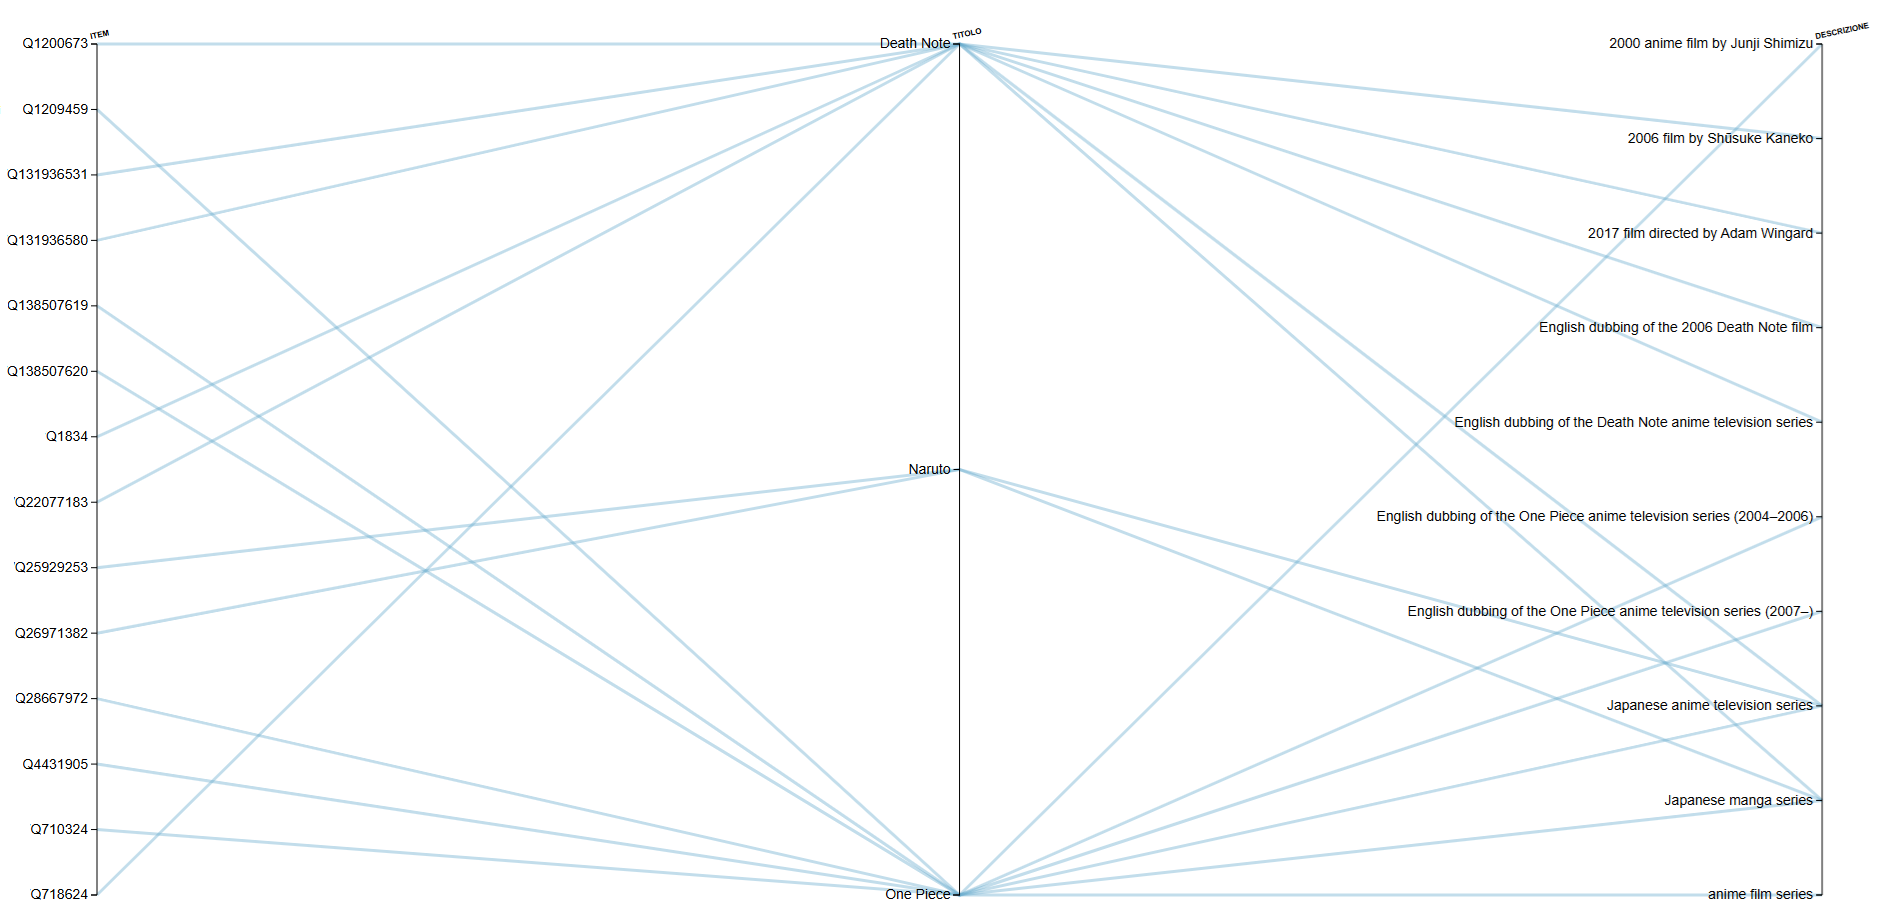
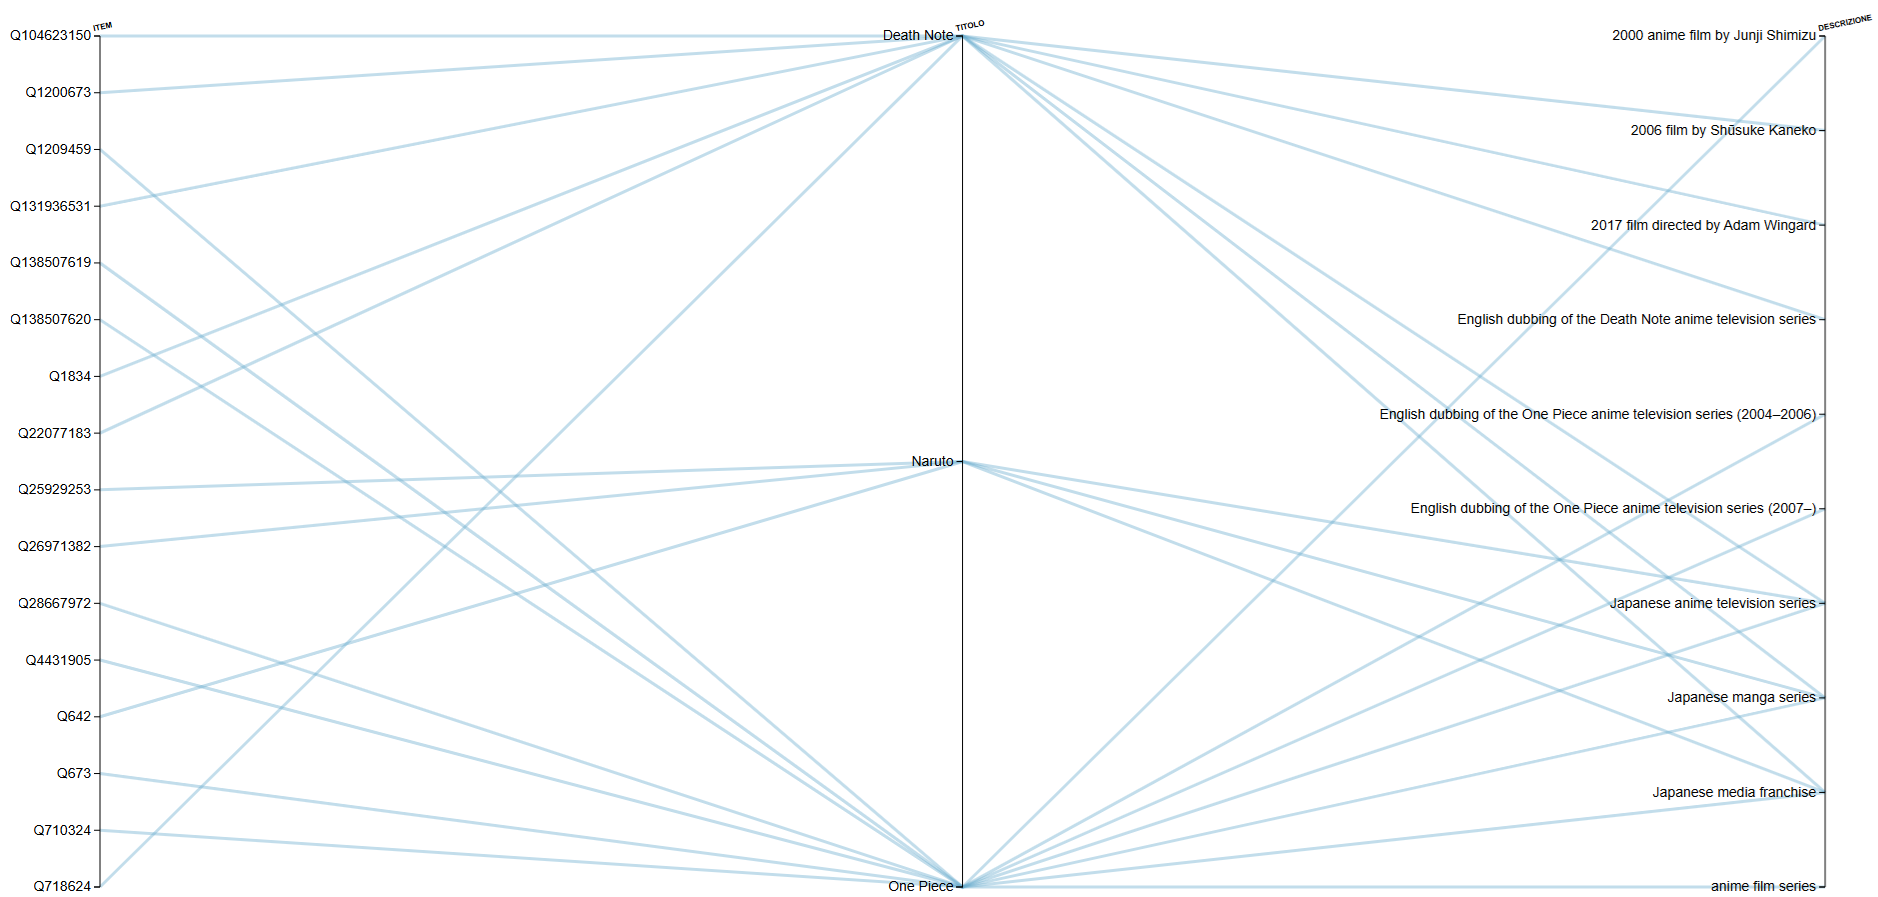
Aggiunta query 7

diff --git a/sparql.html b/sparql.html
@@ -217,7 +217,7 @@ Come possiamo fare a trovare tutti i personaggi di One Piece e Death Note che so
                         <th>Descrizione de</th>
                     </tr>
                 </thead>
-                <tbody><tr data-index="0"><td class=""><a href="http://www.wikidata.org/entity/Q4431905" title="Explore item" class="explore glyphicon glyphicon-search" tabindex="-1" aria-hidden="true"></a> <a title="" href="http://www.wikidata.org/entity/Q4431905" target="_blank" class="item-link" rel="noopener">wd:Q4431905</a></td><td class=""><span title=": One Piece@en">One Piece</span></td><td class=""><span title=": anime film series@en">anime film series</span></td></tr><tr data-index="1"><td class=""><a href="http://www.wikidata.org/entity/Q1834" title="Explore item" class="explore glyphicon glyphicon-search" tabindex="-1" aria-hidden="true"></a> <a title="" href="http://www.wikidata.org/entity/Q1834" target="_blank" class="item-link" rel="noopener">wd:Q1834</a></td><td class=""><span title=": Death Note@en">Death Note</span></td><td class=""><span title=": Japanese manga series@en">Japanese manga series</span></td></tr><tr data-index="2"><td class=""><a href="http://www.wikidata.org/entity/Q26971382" title="Explore item" class="explore glyphicon glyphicon-search" tabindex="-1" aria-hidden="true"></a> <a title="" href="http://www.wikidata.org/entity/Q26971382" target="_blank" class="item-link" rel="noopener">wd:Q26971382</a></td><td class=""><span title=": Naruto@en">Naruto</span></td><td class=""><span title=": Japanese manga series@en">Japanese manga series</span></td></tr><tr data-index="3"><td class=""><a href="http://www.wikidata.org/entity/Q28667972" title="Explore item" class="explore glyphicon glyphicon-search" tabindex="-1" aria-hidden="true"></a> <a title="" href="http://www.wikidata.org/entity/Q28667972" target="_blank" class="item-link" rel="noopener">wd:Q28667972</a></td><td class=""><span title=": One Piece@en">One Piece</span></td><td class=""><span title=": Japanese manga series@en">Japanese manga series</span></td></tr><tr data-index="4"><td class=""><a href="http://www.wikidata.org/entity/Q718624" title="Explore item" class="explore glyphicon glyphicon-search" tabindex="-1" aria-hidden="true"></a> <a title="" href="http://www.wikidata.org/entity/Q718624" target="_blank" class="item-link" rel="noopener">wd:Q718624</a></td><td class=""><span title=": Death Note@en">Death Note</span></td><td class=""><span title=": Japanese anime television series@en">Japanese anime television series</span></td></tr><tr data-index="5"><td class=""><a href="http://www.wikidata.org/entity/Q710324" title="Explore item" class="explore glyphicon glyphicon-search" tabindex="-1" aria-hidden="true"></a> <a title="" href="http://www.wikidata.org/entity/Q710324" target="_blank" class="item-link" rel="noopener">wd:Q710324</a></td><td class=""><span title=": One Piece@en">One Piece</span></td><td class=""><span title=": Japanese anime television series@en">Japanese anime television series</span></td></tr><tr data-index="6"><td class=""><a href="http://www.wikidata.org/entity/Q25929253" title="Explore item" class="explore glyphicon glyphicon-search" tabindex="-1" aria-hidden="true"></a> <a title="" href="http://www.wikidata.org/entity/Q25929253" target="_blank" class="item-link" rel="noopener">wd:Q25929253</a></td><td class=""><span title=": Naruto@en">Naruto</span></td><td class=""><span title=": Japanese anime television series@en">Japanese anime television series</span></td></tr><tr data-index="7"><td class=""><a href="http://www.wikidata.org/entity/Q138507620" title="Explore item" class="explore glyphicon glyphicon-search" tabindex="-1" aria-hidden="true"></a> <a title="" href="http://www.wikidata.org/entity/Q138507620" target="_blank" class="item-link" rel="noopener">wd:Q138507620</a></td><td class=""><span title=": One Piece@en">One Piece</span></td><td class=""><span title=": English dubbing of the One Piece anime television series (2007–)@en">English dubbing of the One Piece anime television series (2007–)</span></td></tr><tr data-index="8"><td class=""><a href="http://www.wikidata.org/entity/Q138507619" title="Explore item" class="explore glyphicon glyphicon-search" tabindex="-1" aria-hidden="true"></a> <a title="" href="http://www.wikidata.org/entity/Q138507619" target="_blank" class="item-link" rel="noopener">wd:Q138507619</a></td><td class=""><span title=": One Piece@en">One Piece</span></td><td class=""><span title=": English dubbing of the One Piece anime television series (2004–2006)@en">English dubbing of the One Piece anime television series (2004–2006)</span></td></tr><tr data-index="9"><td class=""><a href="http://www.wikidata.org/entity/Q131936531" title="Explore item" class="explore glyphicon glyphicon-search" tabindex="-1" aria-hidden="true"></a> <a title="" href="http://www.wikidata.org/entity/Q131936531" target="_blank" class="item-link" rel="noopener">wd:Q131936531</a></td><td class=""><span title=": Death Note@en">Death Note</span></td><td class=""><span title=": English dubbing of the Death Note anime television series@en">English dubbing of the Death Note anime television series</span></td></tr><tr data-index="10"><td class=""><a href="http://www.wikidata.org/entity/Q131936580" title="Explore item" class="explore glyphicon glyphicon-search" tabindex="-1" aria-hidden="true"></a> <a title="" href="http://www.wikidata.org/entity/Q131936580" target="_blank" class="item-link" rel="noopener">wd:Q131936580</a></td><td class=""><span title=": Death Note@en">Death Note</span></td><td class=""><span title=": English dubbing of the 2006 Death Note film@en">English dubbing of the 2006 Death Note film</span></td></tr><tr data-index="11"><td class=""><a href="http://www.wikidata.org/entity/Q22077183" title="Explore item" class="explore glyphicon glyphicon-search" tabindex="-1" aria-hidden="true"></a> <a title="" href="http://www.wikidata.org/entity/Q22077183" target="_blank" class="item-link" rel="noopener">wd:Q22077183</a></td><td class=""><span title=": Death Note@en">Death Note</span></td><td class=""><span title=": 2017 film directed by Adam Wingard@en">2017 film directed by Adam Wingard</span></td></tr><tr data-index="12"><td class=""><a href="http://www.wikidata.org/entity/Q1200673" title="Explore item" class="explore glyphicon glyphicon-search" tabindex="-1" aria-hidden="true"></a> <a title="" href="http://www.wikidata.org/entity/Q1200673" target="_blank" class="item-link" rel="noopener">wd:Q1200673</a></td><td class=""><span title=": Death Note@en">Death Note</span></td><td class=""><span title=": 2006 film by Shūsuke Kaneko@en">2006 film by Shūsuke Kaneko</span></td></tr><tr data-index="13"><td class=""><a href="http://www.wikidata.org/entity/Q1209459" title="Explore item" class="explore glyphicon glyphicon-search" tabindex="-1" aria-hidden="true"></a> <a title="" href="http://www.wikidata.org/entity/Q1209459" target="_blank" class="item-link" rel="noopener">wd:Q1209459</a></td><td class=""><span title=": One Piece@en">One Piece</span></td><td class=""><span title=": 2000 anime film by Junji Shimizu@en">2000 anime film by Junji Shimizu</span></td></tr></tbody>
+                <tbody><tr data-index="0"><td class=""><a href="http://www.wikidata.org/entity/Q4431905" title="Explore item" class="explore glyphicon glyphicon-search" tabindex="-1" aria-hidden="true"></a> <a title="" href="http://www.wikidata.org/entity/Q4431905" target="_blank" class="item-link" rel="noopener">wd:Q4431905</a></td><td class=""><span title=": One Piece@en">One Piece</span></td><td class=""><span title=": anime film series@en">anime film series</span></td></tr><tr data-index="1"><td class=""><a href="http://www.wikidata.org/entity/Q642" title="Explore item" class="explore glyphicon glyphicon-search" tabindex="-1" aria-hidden="true"></a> <a title="" href="http://www.wikidata.org/entity/Q642" target="_blank" class="item-link" rel="noopener">wd:Q642</a></td><td class=""><span title=": Naruto@en">Naruto</span></td><td class=""><span title=": Japanese media franchise@en">Japanese media franchise</span></td></tr><tr data-index="2"><td class=""><a href="http://www.wikidata.org/entity/Q673" title="Explore item" class="explore glyphicon glyphicon-search" tabindex="-1" aria-hidden="true"></a> <a title="" href="http://www.wikidata.org/entity/Q673" target="_blank" class="item-link" rel="noopener">wd:Q673</a></td><td class=""><span title=": One Piece@en">One Piece</span></td><td class=""><span title=": Japanese media franchise@en">Japanese media franchise</span></td></tr><tr data-index="3"><td class=""><a href="http://www.wikidata.org/entity/Q104623150" title="Explore item" class="explore glyphicon glyphicon-search" tabindex="-1" aria-hidden="true"></a> <a title="" href="http://www.wikidata.org/entity/Q104623150" target="_blank" class="item-link" rel="noopener">wd:Q104623150</a></td><td class=""><span title=": Death Note@en">Death Note</span></td><td class=""><span title=": Japanese media franchise@en">Japanese media franchise</span></td></tr><tr data-index="4"><td class=""><a href="http://www.wikidata.org/entity/Q1834" title="Explore item" class="explore glyphicon glyphicon-search" tabindex="-1" aria-hidden="true"></a> <a title="" href="http://www.wikidata.org/entity/Q1834" target="_blank" class="item-link" rel="noopener">wd:Q1834</a></td><td class=""><span title=": Death Note@en">Death Note</span></td><td class=""><span title=": Japanese manga series@en">Japanese manga series</span></td></tr><tr data-index="5"><td class=""><a href="http://www.wikidata.org/entity/Q26971382" title="Explore item" class="explore glyphicon glyphicon-search" tabindex="-1" aria-hidden="true"></a> <a title="" href="http://www.wikidata.org/entity/Q26971382" target="_blank" class="item-link" rel="noopener">wd:Q26971382</a></td><td class=""><span title=": Naruto@en">Naruto</span></td><td class=""><span title=": Japanese manga series@en">Japanese manga series</span></td></tr><tr data-index="6"><td class=""><a href="http://www.wikidata.org/entity/Q28667972" title="Explore item" class="explore glyphicon glyphicon-search" tabindex="-1" aria-hidden="true"></a> <a title="" href="http://www.wikidata.org/entity/Q28667972" target="_blank" class="item-link" rel="noopener">wd:Q28667972</a></td><td class=""><span title=": One Piece@en">One Piece</span></td><td class=""><span title=": Japanese manga series@en">Japanese manga series</span></td></tr><tr data-index="7"><td class=""><a href="http://www.wikidata.org/entity/Q718624" title="Explore item" class="explore glyphicon glyphicon-search" tabindex="-1" aria-hidden="true"></a> <a title="" href="http://www.wikidata.org/entity/Q718624" target="_blank" class="item-link" rel="noopener">wd:Q718624</a></td><td class=""><span title=": Death Note@en">Death Note</span></td><td class=""><span title=": Japanese anime television series@en">Japanese anime television series</span></td></tr><tr data-index="8"><td class=""><a href="http://www.wikidata.org/entity/Q710324" title="Explore item" class="explore glyphicon glyphicon-search" tabindex="-1" aria-hidden="true"></a> <a title="" href="http://www.wikidata.org/entity/Q710324" target="_blank" class="item-link" rel="noopener">wd:Q710324</a></td><td class=""><span title=": One Piece@en">One Piece</span></td><td class=""><span title=": Japanese anime television series@en">Japanese anime television series</span></td></tr><tr data-index="9"><td class=""><a href="http://www.wikidata.org/entity/Q25929253" title="Explore item" class="explore glyphicon glyphicon-search" tabindex="-1" aria-hidden="true"></a> <a title="" href="http://www.wikidata.org/entity/Q25929253" target="_blank" class="item-link" rel="noopener">wd:Q25929253</a></td><td class=""><span title=": Naruto@en">Naruto</span></td><td class=""><span title=": Japanese anime television series@en">Japanese anime television series</span></td></tr><tr data-index="10"><td class=""><a href="http://www.wikidata.org/entity/Q138507620" title="Explore item" class="explore glyphicon glyphicon-search" tabindex="-1" aria-hidden="true"></a> <a title="" href="http://www.wikidata.org/entity/Q138507620" target="_blank" class="item-link" rel="noopener">wd:Q138507620</a></td><td class=""><span title=": One Piece@en">One Piece</span></td><td class=""><span title=": English dubbing of the One Piece anime television series (2007–)@en">English dubbing of the One Piece anime television series (2007–)</span></td></tr><tr data-index="11"><td class=""><a href="http://www.wikidata.org/entity/Q138507619" title="Explore item" class="explore glyphicon glyphicon-search" tabindex="-1" aria-hidden="true"></a> <a title="" href="http://www.wikidata.org/entity/Q138507619" target="_blank" class="item-link" rel="noopener">wd:Q138507619</a></td><td class=""><span title=": One Piece@en">One Piece</span></td><td class=""><span title=": English dubbing of the One Piece anime television series (2004–2006)@en">English dubbing of the One Piece anime television series (2004–2006)</span></td></tr><tr data-index="12"><td class=""><a href="http://www.wikidata.org/entity/Q131936531" title="Explore item" class="explore glyphicon glyphicon-search" tabindex="-1" aria-hidden="true"></a> <a title="" href="http://www.wikidata.org/entity/Q131936531" target="_blank" class="item-link" rel="noopener">wd:Q131936531</a></td><td class=""><span title=": Death Note@en">Death Note</span></td><td class=""><span title=": English dubbing of the Death Note anime television series@en">English dubbing of the Death Note anime television series</span></td></tr><tr data-index="13"><td class=""><a href="http://www.wikidata.org/entity/Q22077183" title="Explore item" class="explore glyphicon glyphicon-search" tabindex="-1" aria-hidden="true"></a> <a title="" href="http://www.wikidata.org/entity/Q22077183" target="_blank" class="item-link" rel="noopener">wd:Q22077183</a></td><td class=""><span title=": Death Note@en">Death Note</span></td><td class=""><span title=": 2017 film directed by Adam Wingard@en">2017 film directed by Adam Wingard</span></td></tr><tr data-index="14"><td class=""><a href="http://www.wikidata.org/entity/Q1200673" title="Explore item" class="explore glyphicon glyphicon-search" tabindex="-1" aria-hidden="true"></a> <a title="" href="http://www.wikidata.org/entity/Q1200673" target="_blank" class="item-link" rel="noopener">wd:Q1200673</a></td><td class=""><span title=": Death Note@en">Death Note</span></td><td class=""><span title=": 2006 film by Shūsuke Kaneko@en">2006 film by Shūsuke Kaneko</span></td></tr><tr data-index="15"><td class=""><a href="http://www.wikidata.org/entity/Q1209459" title="Explore item" class="explore glyphicon glyphicon-search" tabindex="-1" aria-hidden="true"></a> <a title="" href="http://www.wikidata.org/entity/Q1209459" target="_blank" class="item-link" rel="noopener">wd:Q1209459</a></td><td class=""><span title=": One Piece@en">One Piece</span></td><td class=""><span title=": 2000 anime film by Junji Shimizu@en">2000 anime film by Junji Shimizu</span></td></tr></tbody>
             </table>
             <div class="table-controls">
                 <button class="btn-action primary" id="toggleBtn-6">
@@ -236,10 +236,53 @@ Come possiamo fare a trovare tutti i personaggi di One Piece e Death Note che so
 
 <div>###################################################################################</div>
 
-Ora dobbiamo prendere in considerazione solo gli item relativi alle tre opere selezionate
+Ora dobbiamo prendere in considerazione solo gli item relativi alle tre opere selezionate e vedere quali personaggi hanno l'archetipo Character type
 
 <div>###################################################################################</div>
 
+        <div class="query-box" id="query-box-7">
+            <h3>Query 7: cerchiamo quali personaggi hanno l'archetipo <em>P9071</em> character type</h3>
+            <p>.</p>
+            <!--iframe class="query-embed" src="./queries/q0i_SARA.sparql.sparql" title="Query salvata q0g_SARA.sparql.sparql"></iframe-->
+            <pre class="query-embed" data-src="./queries/q0i_SARA.sparql"><code>Caricamento query in corso...</code></pre>
+            <h4>Risultati ottenuti</h4>
+            <table class="results-table" id="results-table-7" data-limit="10">
+                <thead>
+                    <tr>
+                        <th>Opera - Entità</th>
+                        <th>Etichetta dell'opera</th>
+                        <th>Totale dei personaggi</th>
+                        <th>Personaggio - Entità</th>
+                        <th>Etichetta del personaggio</th>
+                        <th>Label Character type</th>
+                    </tr>
+                </thead>
+                <tbody id="tbody-query7">
+                </tbody>
+            </table>
+            <div class="pagination-container">
+                <button id="btn-prev" class="btn-action primary" onclick="paginaPrecedente()">Precedente</button>
+                <span id="page-indicator">Pagina 1 di Lungh</span>
+                <button id="btn-next" class="btn-action primary" onclick="paginaSuccessiva()">Successiva</button>
+            </div>
+            <div class="table-controls">
+                <button class="btn-action primary" id="chartBtn-7">
+                    Chart
+                </button>
+            </div>
+            <div id="lightbox-7" class="lightbox-overlay">
+                <span class="lightbox-close">&times;</span>
+                <img class="lightbox-content" id="lightbox-img-7" src="./img/chart-7.png" alt="Grafico Risultati 7">
+            </div>
+            <p><strong>Perché è utile:</strong> </p>
+        </div>
+
+
+<div>###################################################################################</div>
+
+E ora??????
+
+<div>###################################################################################</div>
 
 
 

diff --git a/script/script.js b/script/script.js
@@ -475,4 +475,46 @@ document.addEventListener('DOMContentLoaded', function() {
             });
     });
 
+    // ==========================================
+    // PARTE 7: IMPAGINAMENTO RISULTATI QUERY SPARQL (DINAMICO) QUERY 7
+    // ==========================================
+
+    // 1. INSERISCI QUI IL PERCORSO DEL TUO FILE JSON
+    // Assicurati che il percorso sia corretto rispetto a dove si trova la tua pagina HTML
+    const urlFileJson = "../queries/query_7.json"; // Modifica questo percorso se necessario
+
+    // 2. Funzione per recuperare il file
+    function caricaDatiDaJson() {
+        // Mostriamo un messaggio di caricamento mentre il file viene pescato
+        const tbody = document.getElementById("tbody-query7");
+        tbody.innerHTML = "<tr><td colspan='4'>Caricamento dati in corso...</td></tr>";
+
+        fetch(urlFileJson)
+            .then(response => {
+                // Controlliamo che il file esista e sia stato trovato
+                if (!response.ok) {
+                    throw new Error("Errore HTTP: " + response.status);
+                }
+                return response.json(); // Converte il file testuale in un oggetto JavaScript
+            })
+            .then(data => {
+                // 3. IL COLLEGAMENTO: 
+                // Passiamo i dati pronti alla funzione di paginazione che abbiamo scritto prima
+                gestisciRisultatiQuery7(data);
+            })
+            .catch(error => {
+                // Gestione degli errori (es. file non trovato o JSON malformato)
+                console.error("Si è verificato un errore durante il caricamento del JSON:", error);
+                tbody.innerHTML = `<tr><td colspan='4' style='color:red;'>Errore nel caricamento dei dati: ${error.message}</td></tr>`;
+            });
+    }
+
+    // 4. Avvia il processo solo quando la pagina HTML è completamente caricata
+    document.addEventListener("DOMContentLoaded", () => {
+        // Solo se siamo sulla pagina corretta (controllando che esista la tabella)
+        if (document.getElementById("tbody-query7")) {
+            caricaDatiDaJson();
+        }
+    });
+
 });

diff --git a/style/style.css b/style/style.css
@@ -615,3 +615,44 @@ p {
     from { transform: scale(0.95); opacity: 0; }
     to { transform: scale(1); opacity: 1; }
 }
+
+
+/* ==========================================================================
+   12. PAGINAZIONE QUERY 7
+   ========================================================================== */
+
+.pagination-container {
+    display: flex;
+    justify-content: center;
+    align-items: center;
+    margin: 25px 0;
+    gap: 15px;
+    font-family: Arial, sans-serif;
+}
+
+.pagination-btn {
+    padding: 8px 16px;
+    background-color: #007bff; /* Sostituisci con il colore primario del tuo brand */
+    color: white;
+    border: none;
+    border-radius: 4px;
+    cursor: pointer;
+    font-size: 14px;
+    transition: background-color 0.2s ease;
+}
+
+.pagination-btn:hover:not(:disabled) {
+    background-color: #0056b3;
+}
+
+.pagination-btn:disabled {
+    background-color: #cccccc;
+    color: #666666;
+    cursor: not-allowed;
+}
+
+#page-indicator {
+    font-size: 14px;
+    color: #333333;
+    font-weight: 500;
+}